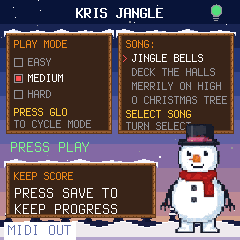
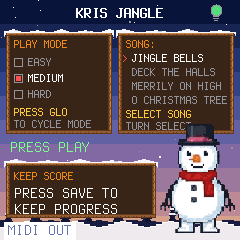
Kris Jangle: the snow ground fills to the bottom of the screen, no shaded band

Changed region(s): [[0.2917, 0.9625, 1.0, 1.0], [0.0, 0.9917, 0.0292, 1.0]]

diff --git a/kris-jangle/app.c b/kris-jangle/app.c
@@ -1616,27 +1616,24 @@ static void treeline(int32_t surface, uint32_t ph, int32_t staff_x)
 
 /* Shallow snow ground under whoever is standing on this screen: mostly-white
  * drifts with a soft, gently rolling top edge (6 px columns whose height
- * changes by at most 2 px per column, so no sawtooth), a shaded lower band,
- * and a few slow twinkles. surface is the baseline top edge, a few px above
- * the feet (yb = surface + 6 in draw_content), so the character stands in
- * it. The ground fills to the bottom of the screen. Deterministic in x
- * (and ph for the twinkles), so both draw passes agree. */
+ * changes by at most 2 px per column, so no sawtooth), and a few slow
+ * twinkles. surface is the baseline top edge, a few px above the feet
+ * (yb = surface + 6 in draw_content), so the character stands in it. The
+ * ground fills to the bottom of the screen. Deterministic in x (and ph for
+ * the twinkles), so both draw passes agree. */
 static void snow_ground(int32_t surface, uint32_t ph)
 {
     /* Rolling profile, one full hill per 48 px; neighbouring columns differ
      * by at most 2 px, which reads as soft drifts rather than a jagged edge. */
     static const int8_t HILL[8] = {1, 2, 4, 6, 7, 6, 4, 2};
     const uint16_t snow = RGB(238, 232, 238);
-    const uint16_t shade = RGB(176, 166, 200);
     int32_t x;
     uint32_t k;
     {
-        int32_t shade_top = surface + (240 - surface) * 3 / 4;
         for (x = 0; x < 240; x += 6) {
             int32_t top = surface - HILL[(x / 6) % 8];
             rrect(x, top, 6, 240 - top, snow);
             rrect(x, top, 6, 1, C_WHITE);
-            rrect(x, shade_top, 6, 240 - shade_top, shade);
         }
     }
     for (k = 0; k < 8u; k++) {

diff --git a/README.md b/README.md
@@ -25,7 +25,7 @@ Four carols, all transcribed from MIDI in the repo:
   <https://doohinkus.github.io/kris-jangle/install/>
 - **Manual**: <https://doohinkus.github.io/kris-jangle/manual/>
 
-![Kris Jangle title screen](kris-jangle/docs/img/screen-title.png?v=2 "The title screen")
+![Kris Jangle title screen](kris-jangle/docs/img/screen-title.png?v=3 "The title screen")
 
 ## How to play
 
